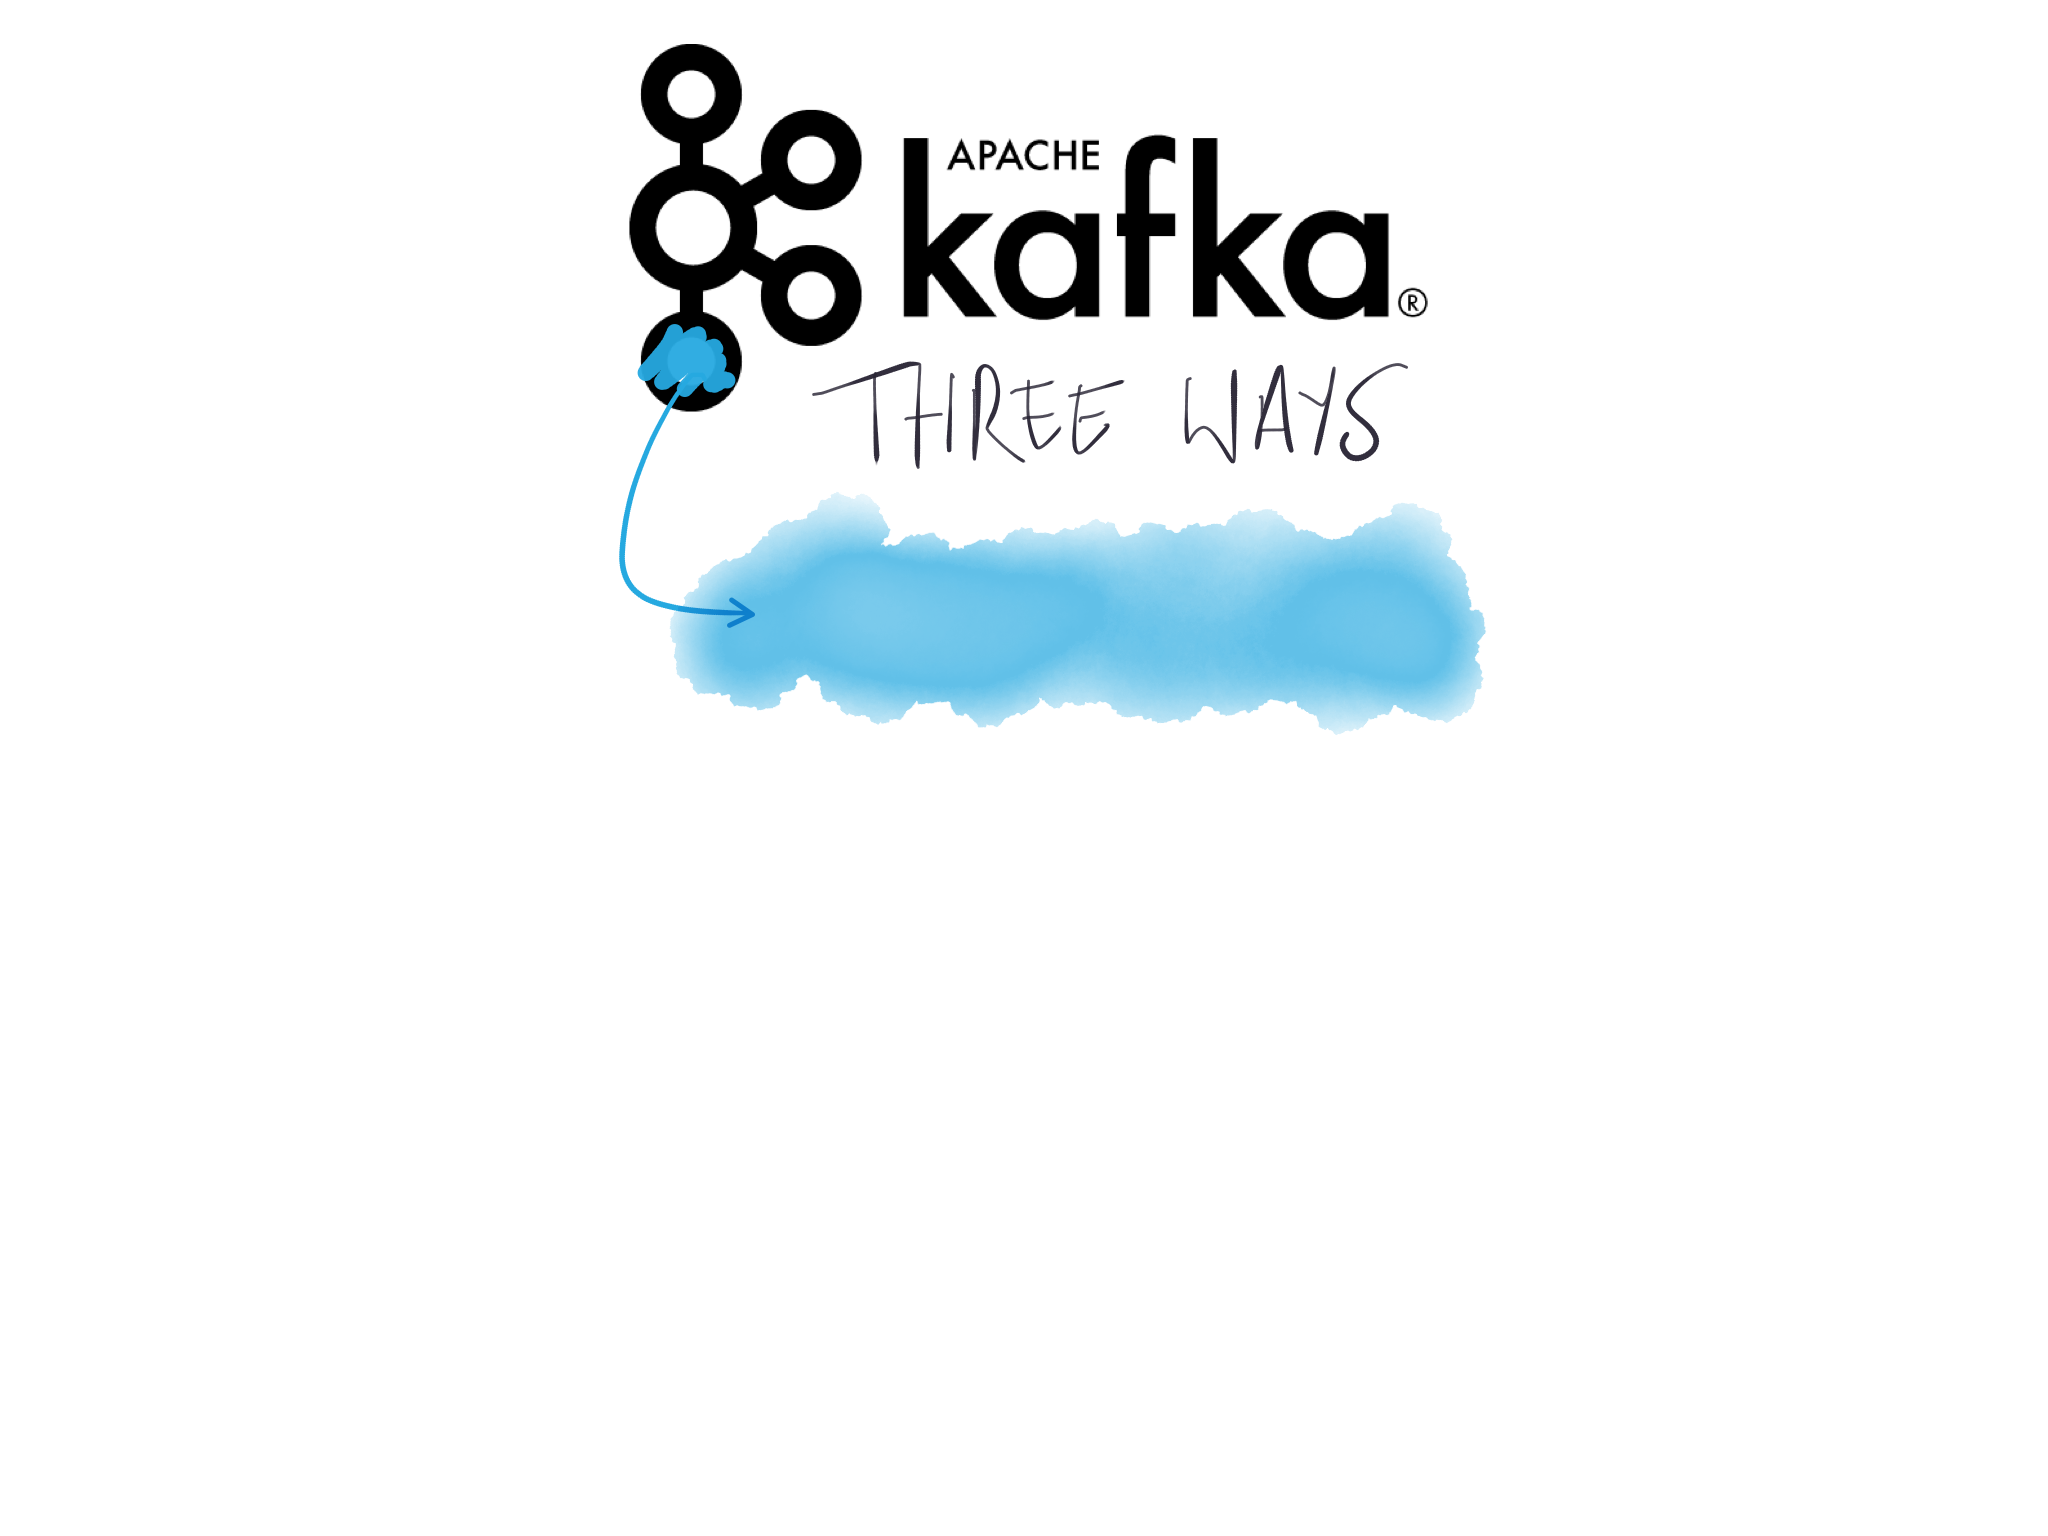
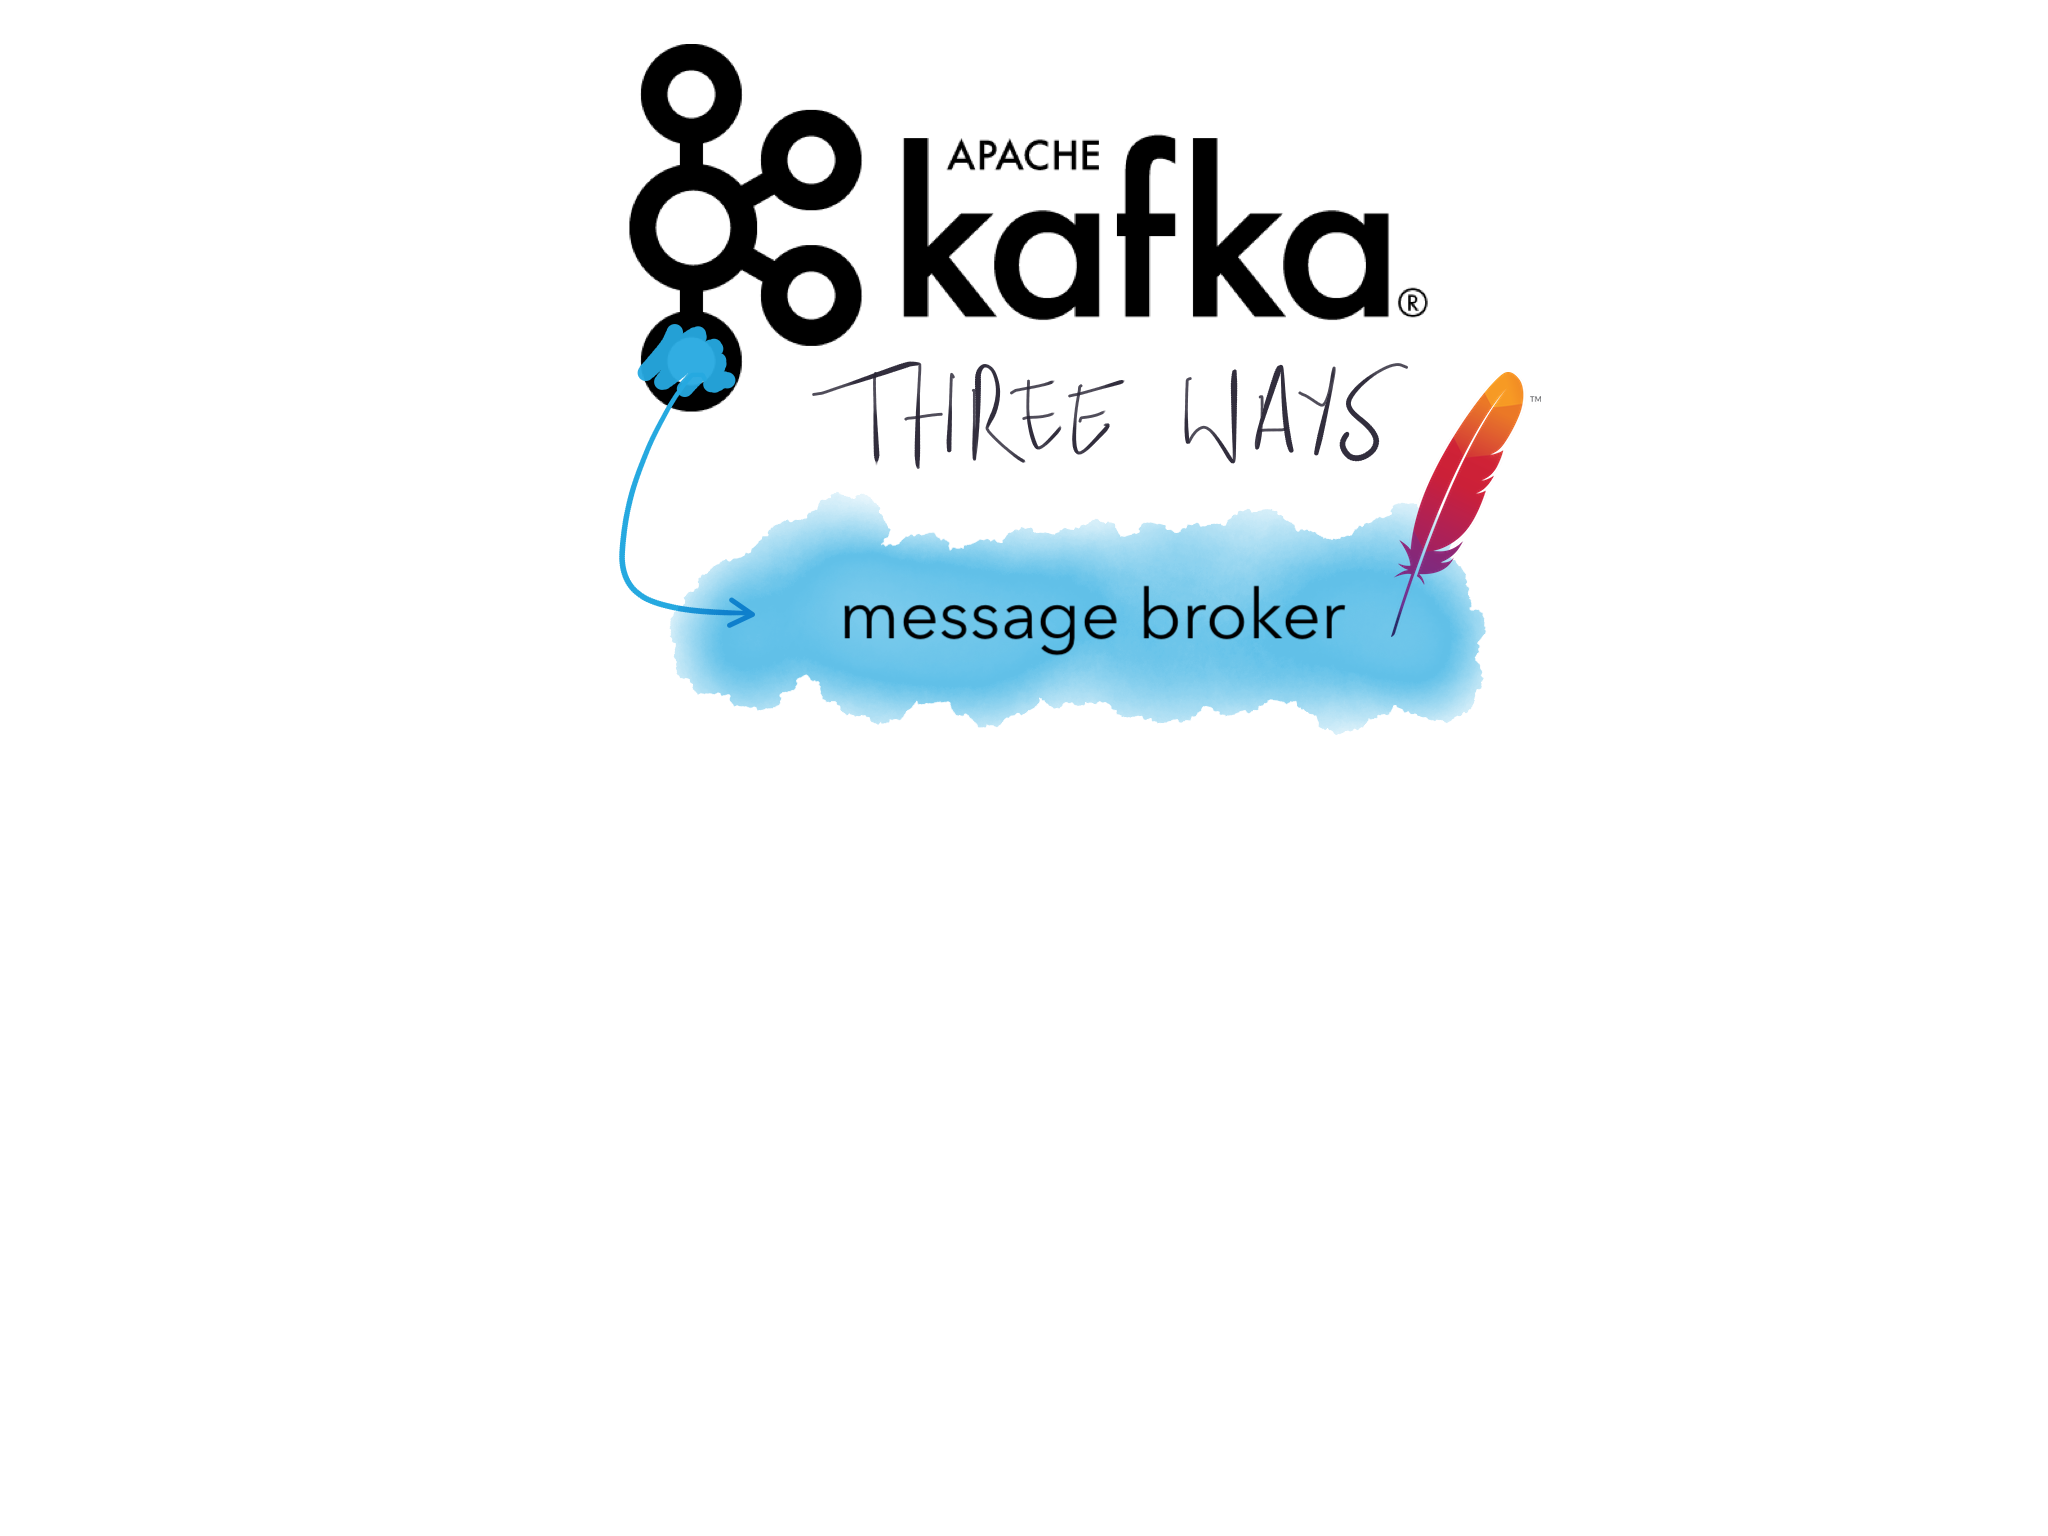
update

Changed region(s): [[0.4062, 0.375, 0.6562, 0.4375], [0.6875, 0.25, 0.75, 0.375]]

diff --git a/index.html b/index.html
@@ -53,7 +53,10 @@
         </section>
 
         <section data-background="img/title-4.png" data-background-size="contain" data-background-transition="none">
-        </section
+        </section>
+
+        <section data-background="img/title-5.png" data-background-size="contain" data-background-transition="none">
+        </section>
 
     </div>
 
